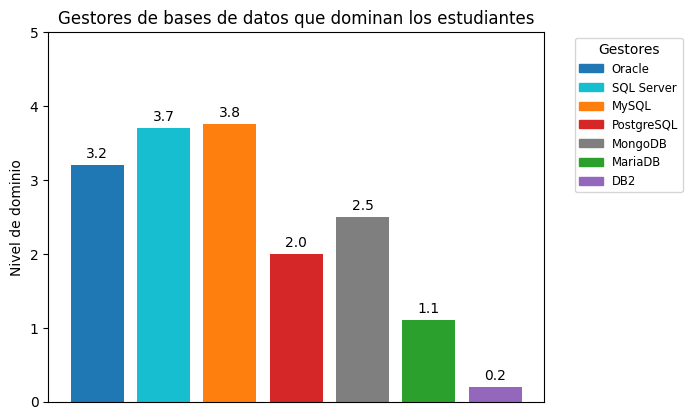
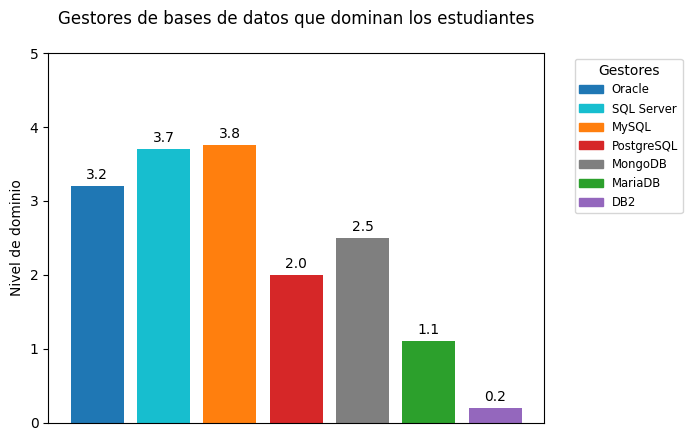
Oracle 2?

diff --git a/make_graphics.py b/make_graphics.py
@@ -812,7 +812,7 @@ lenguajes_pro = [np.mean(oracle), np.mean(server), np.mean(mysql), np.mean(postg
 make_bar(
         data=lenguajes,
         por=lenguajes_pro,
-        title="Gestores de bases de datos que dominan los estudiantes",
+        title="Gestores de bases de datos que dominan los estudiantes\n",
         name="Gestores",
         file_name="./fig/gestores_domi.png",
         range=True,
